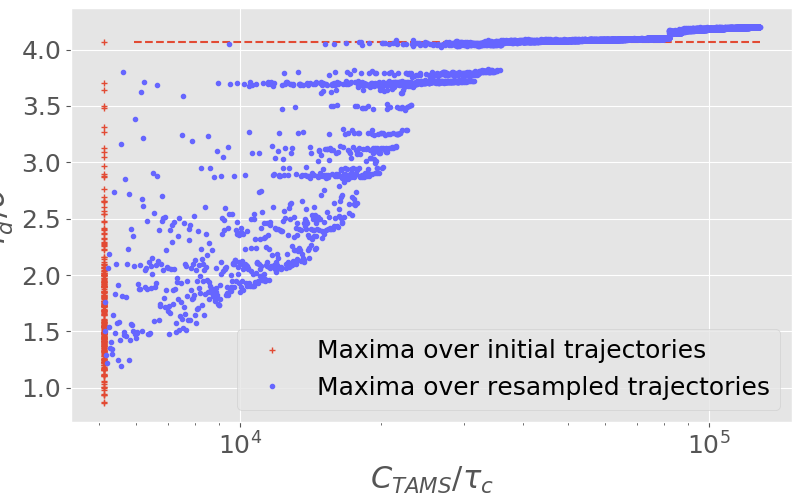
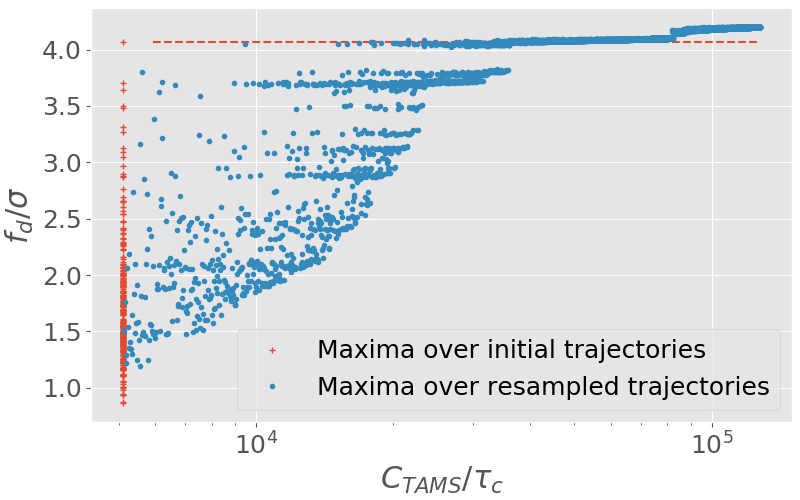
Updates figure AMS_drag_resampling

diff --git a/figures/AMS_drag_resampling/make_plot_256.py b/figures/AMS_drag_resampling/make_plot_256.py
@@ -2,7 +2,7 @@ import numpy as np
 import matplotlib.pyplot as plt
 
 plt.style.use('ggplot')
-
+color_list = plt.rcParams['axes.prop_cycle'].by_key()['color']
 # This scripts produces a figure that illustrates how the maximum over the resamplied trajectories
 # saturates. It shows that that the TAMS does not lead to higher fluctuations, with respect to the
 # initial ensemble of trajectories.
@@ -11,7 +11,7 @@ plt.style.use('ggplot')
 # transition_hdd/thibault/These/AMS/libTAMS/tests/experience_lbm/courbe_efficacite_instant
 # Original MATLAB script is make_plot_256.m
 
-prefix = '/home/thibault/transition_hdd/thibault/These/AMS/libTAMS/tests/experience_lbm/' \
+prefix = '/home/tlestang/transition_hdd/thibault/These/AMS/libTAMS/tests/experience_lbm/' \
         +'data/instant_256_20/'
 
 # Defines average and std of drag process, compute over the control run
@@ -50,10 +50,10 @@ init.set_color(line.get_color())
 init.set_label('Maxima over initial trajectories')
 
 # Plots maxima over resampled trajectories
-resamp, =ax.plot(Cvec, amax, linestyle='None')
+resamp, = ax.plot(Cvec, amax, linestyle='None')
 resamp.set_marker('o')
 resamp.set_markersize(3)
-resamp.set_markerfacecolor('#6666ff');
+resamp.set_markerfacecolor(color_list[1]);
 resamp.set_markeredgecolor(resamp.get_markerfacecolor())
 resamp.set_label('Maxima over resampled trajectories')
 
